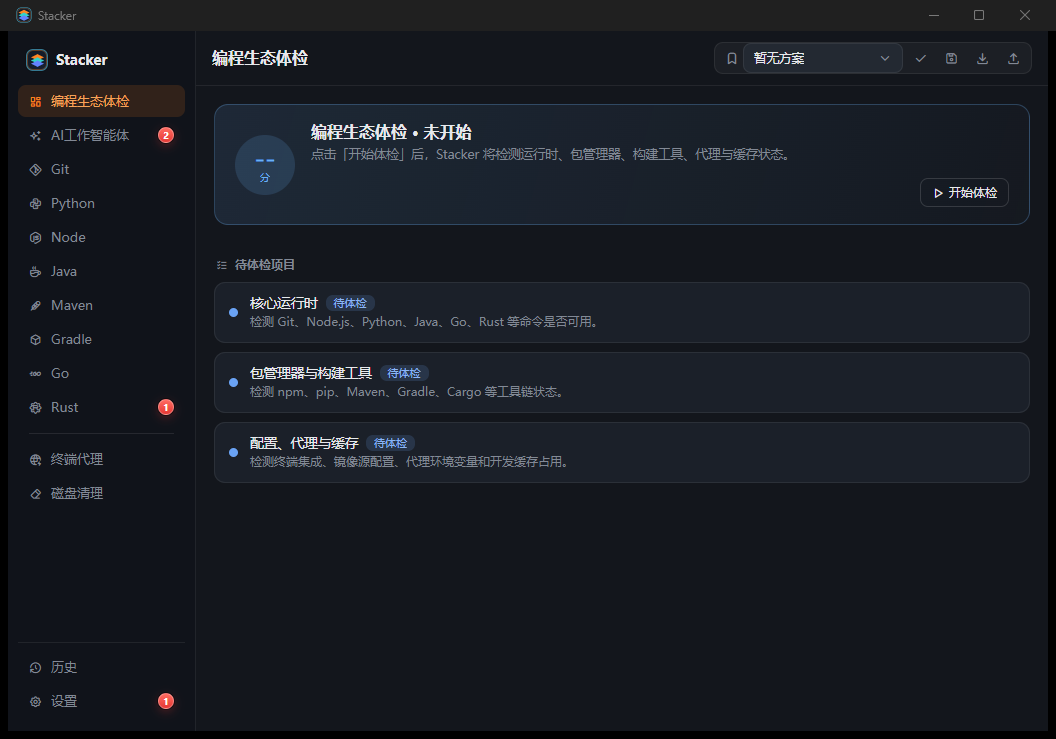
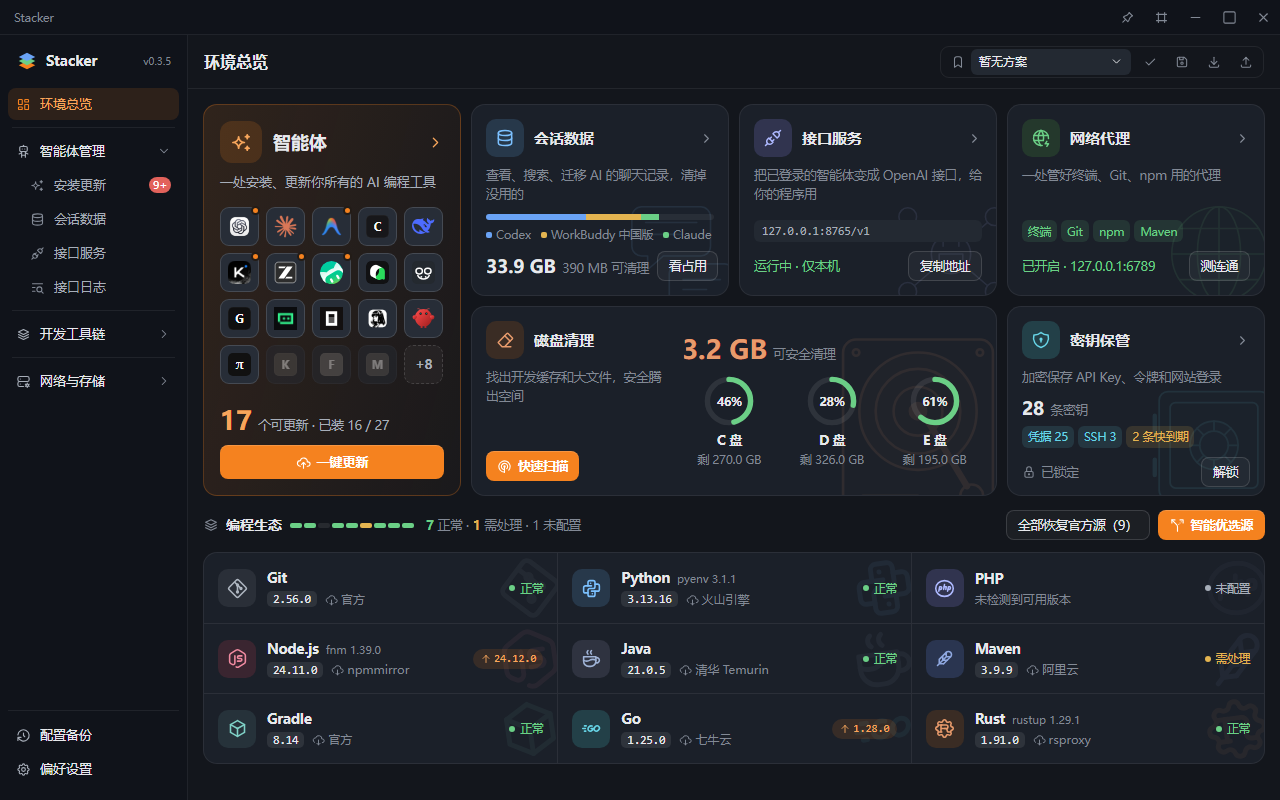
chore(release): v0.3.5

diff --git a/README.md b/README.md
@@ -33,11 +33,11 @@ Stacker manages that local layer without requiring a model connection or uploadi
 
 ## Product Tour
 
-### Programming Ecosystem Check
+### Environment Overview
 
-Run an on-demand check of the commands, runtimes, package managers, build tools, proxy configuration, and developer caches that are actually effective on the workstation.
+The home page Stacker opens on: agents, session data, the API service, proxy, disks and the key vault at a glance, each one click from what it does. It checks commands, runtimes, package managers, build tools and caches by itself, and only speaks up when something needs attention.
 
-![Stacker programming ecosystem check](assets/screenshots/environment-check.png)
+![Stacker environment overview](assets/screenshots/environment-check.png)
 
 ### Agent Install & Update
 

diff --git a/README.zh-CN.md b/README.zh-CN.md
@@ -37,11 +37,11 @@ Stacker 管理的正是这一层，并且不要求接入大模型，也不会上
 
 ## 功能预览
 
-### 编程生态体检
+### 环境总览
 
-按需检查当前工作站真正生效的命令、运行时、包管理器、构建工具、代理设置和开发缓存。
+打开就是首页：智能体、会话数据、接口服务、网络代理、磁盘和密钥一屏看全，点一下就能进入或直接操作。命令、运行时、包管理器、构建工具和缓存自动检查，有问题才提醒。
 
-![Stacker 编程生态体检](assets/screenshots/zh-CN/environment-check.png)
+![Stacker 环境总览](assets/screenshots/zh-CN/environment-check.png)
 
 ### 智能体安装更新
 

diff --git a/docs/development.md b/docs/development.md
@@ -2,7 +2,7 @@
 
 ## 当前状态
 
-- 应用版本元数据为 `0.3.4`（首个签名发行版）；`v0.3.3` 标签是最近一次已发布基线。
+- 应用版本元数据为 `0.3.5`；`v0.3.4` 标签（首个签名发行版）是上一个已发布基线。
 - 技术栈为 React 19 + TypeScript 6 + Vite 8 + Tauri 2 + Rust 2021，最低 Rust 版本为 1.77.2。
 - 仅支持 Windows 10/11 x64。开发、测试和正式环境的数据目录由后端隔离。
 - GitHub `origin` 与 Gitee `gitee` 是等价发布目标。源码提交、标签和发行资产必须保持一致；中文链接优先 Gitee，英文链接优先 GitHub。
